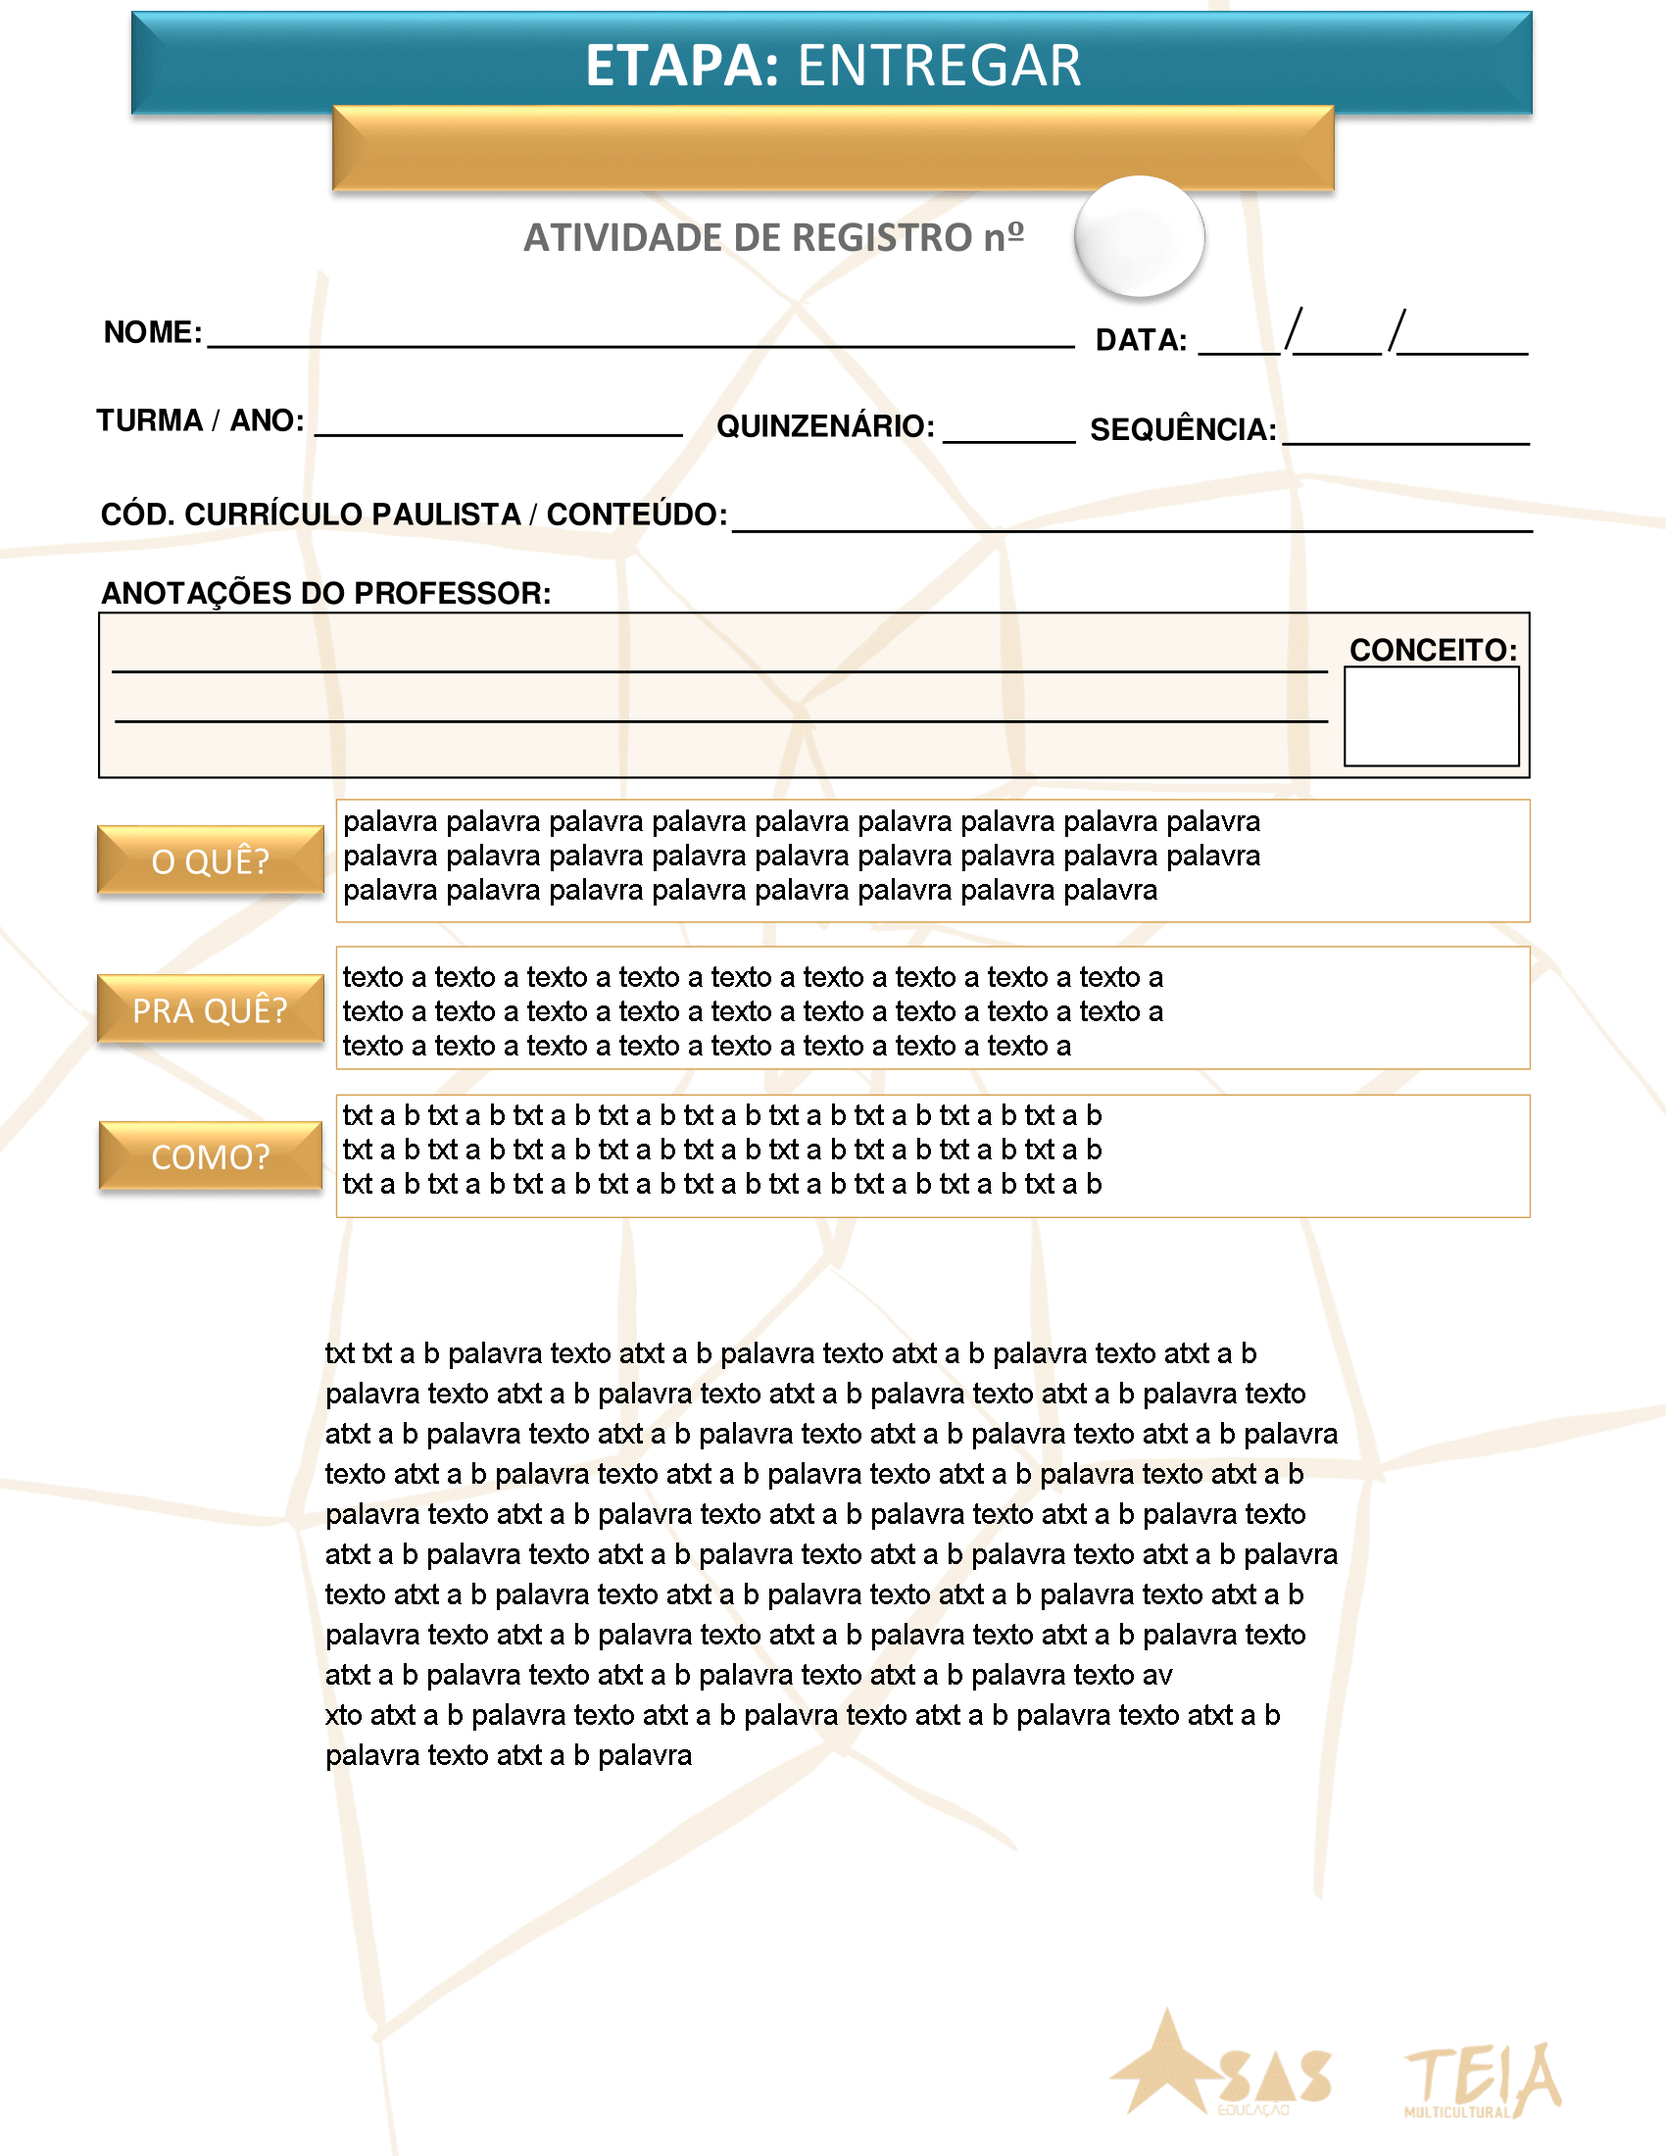
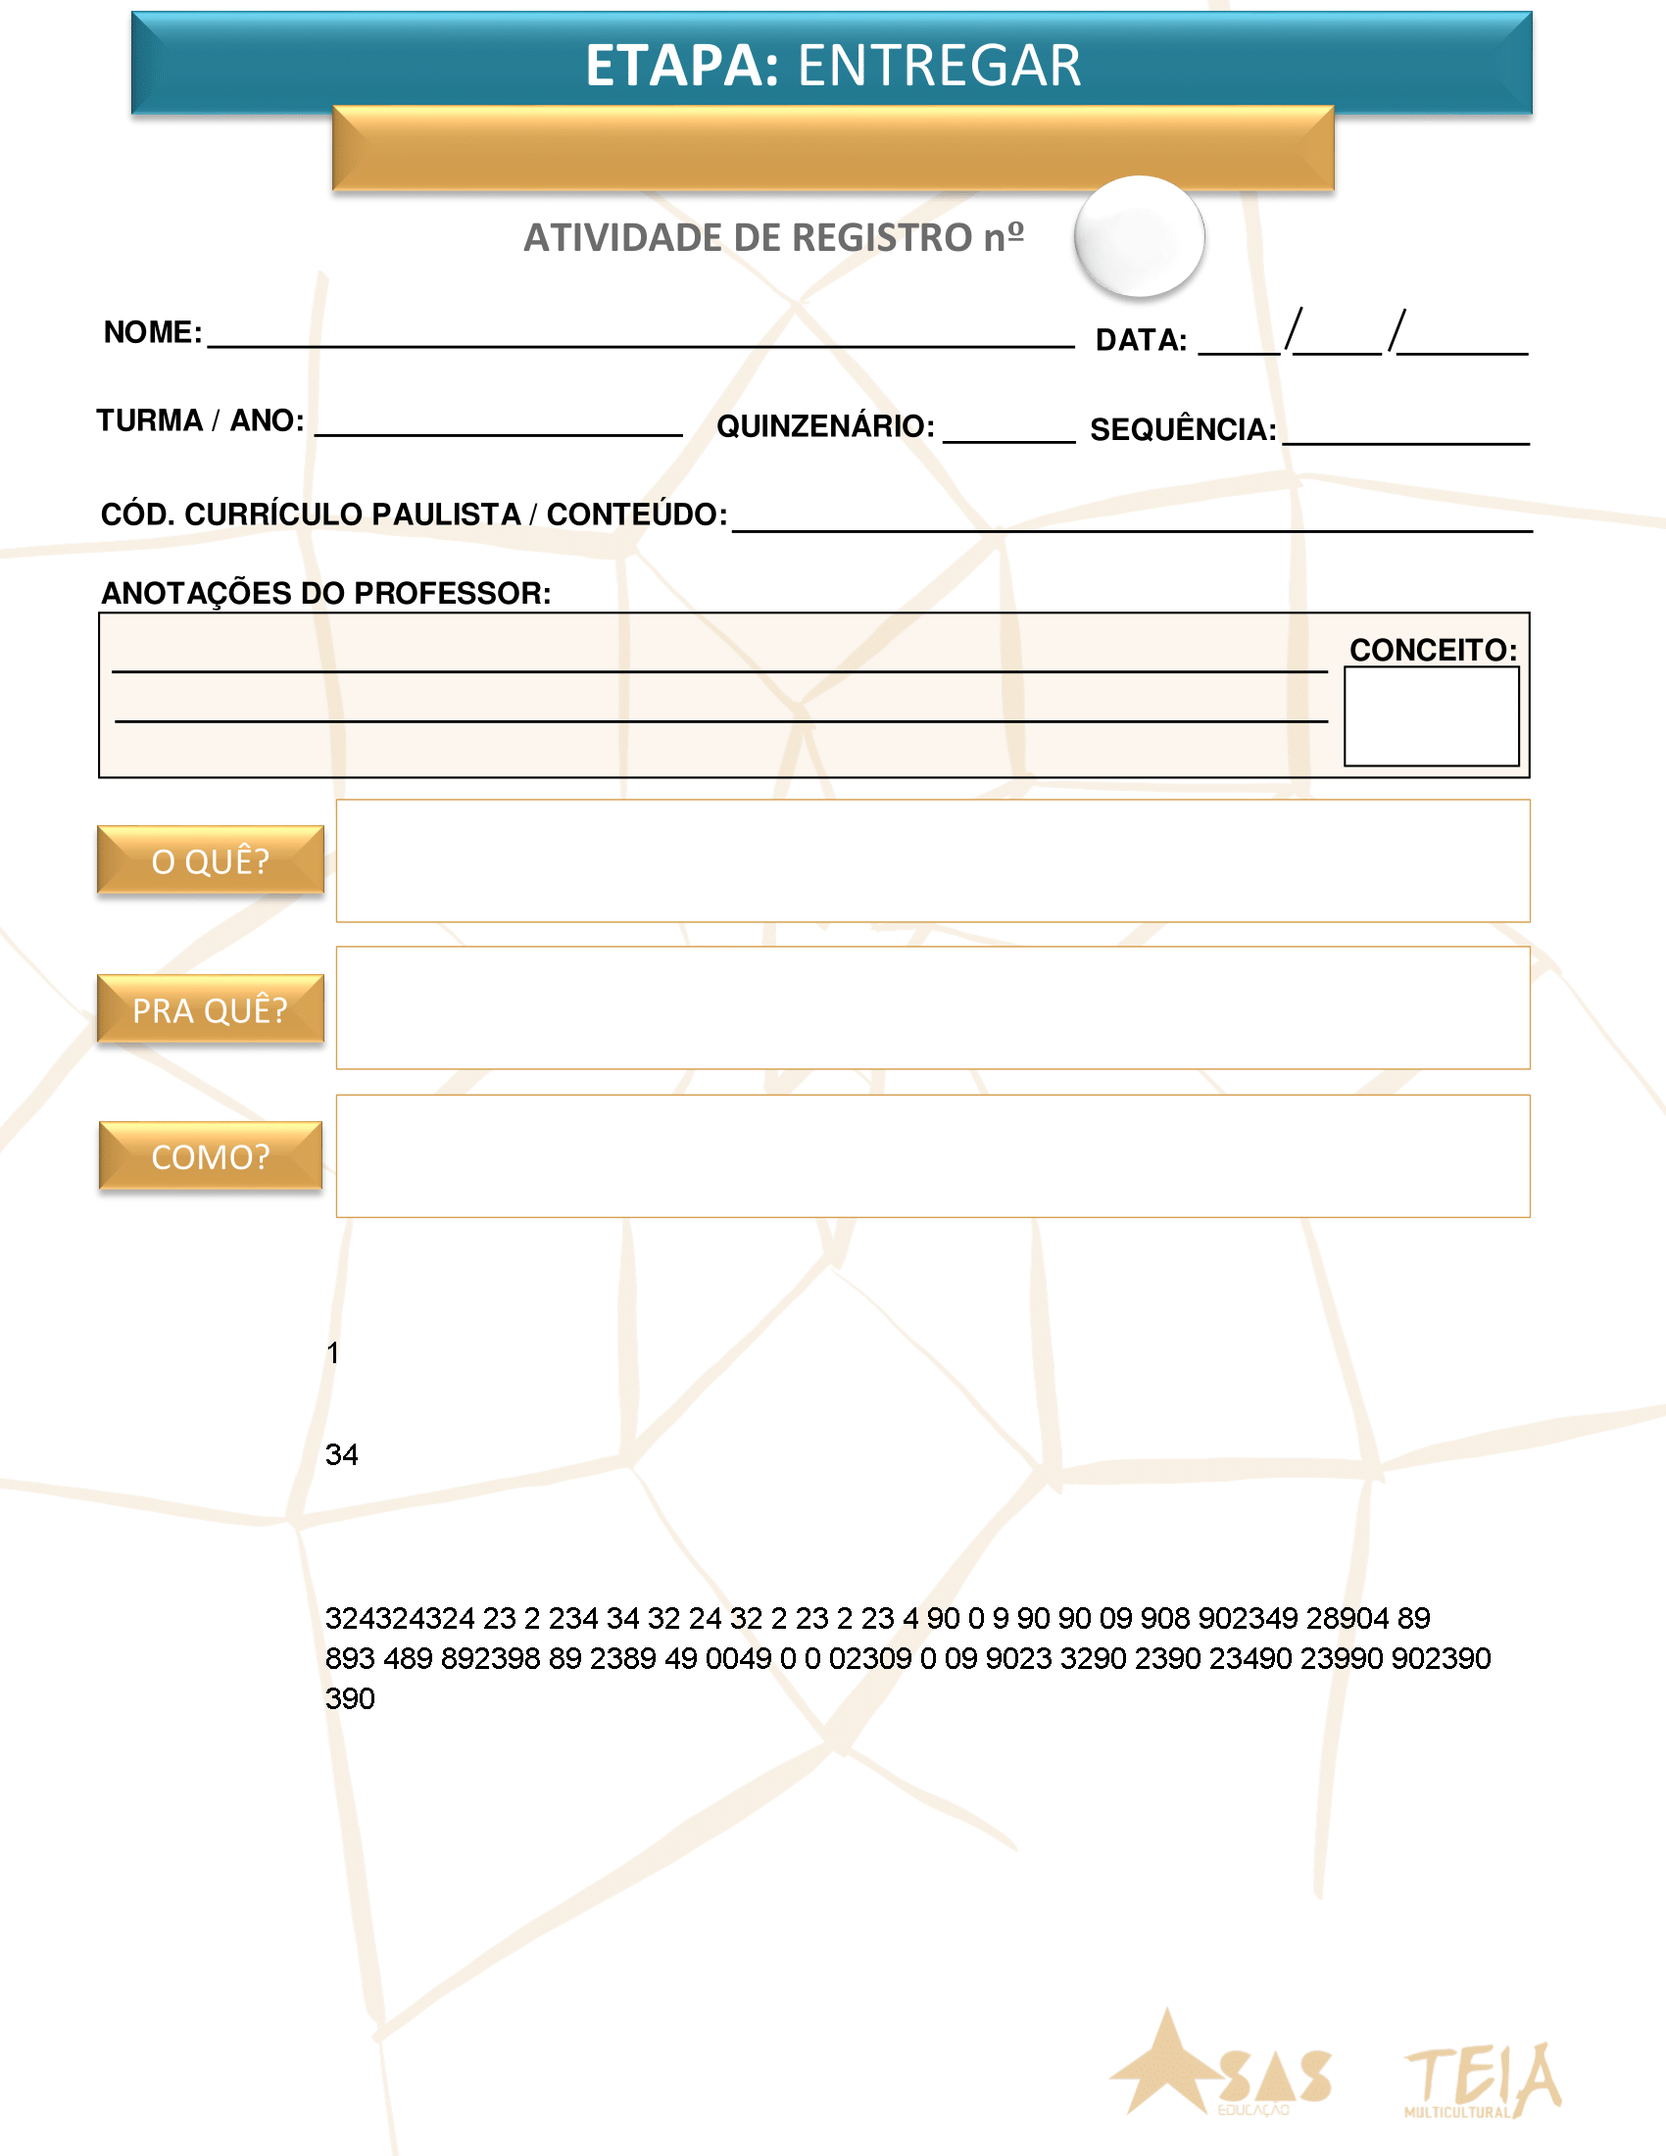
falta ajustes atmanho

Changed region(s): [[0.1871, 0.6182, 0.8729, 0.8345], [0.1871, 0.3709, 0.7482, 0.5564]]

diff --git a/script-preencher.py b/script-preencher.py
@@ -18,23 +18,22 @@ def sair():
     window.destroy()
 
 def verifica_limite_v2():
-
     instrucoes = instrucoes_text.get("1.0", "end")
     num_chars = len(instrucoes)
-    num_linebreaks = instrucoes.count('\n')
+    num_linebreaks = len(instrucoes.splitlines()) - 1  # Subtract 1 for the last line
     num_lines = num_chars // 65 + num_linebreaks
-    
+ 
     if num_lines > 18:
-        messagebox.showwarning("Foi estimado que você atingiu o limite do primeiro bloco de instruções! Para continuar, use o segund bloco")
+        messagebox.showwarning("Limite atingido!", "Foi estimado que você atingiu o limite do primeiro bloco de instruções! Para continuar, use o segund bloco")
 
         
     
  
     instrucoes2 = instrucoes_text2.get("1.0", "end")
     num_chars2 = len(instrucoes2)
-    num_linebreaks2 = instrucoes2.count('\n')
+    num_linebreaks2 = len(instrucoes2.splitlines()) - 1  # Subtract 1 for the last line
     num_lines2 = num_chars2 // 65 + num_linebreaks2
-    
+
     if num_lines2 > 65:
         messagebox.showwarning("Limite de linhas excedido para o segundo bloco de Instruções", "O texto inserido para as instruções da segunda página pode exceder o limite de linhas. Por favor, revise o texto.")
 
@@ -42,65 +41,42 @@ def verifica_limite_v2():
 
 
 def criar_tudo():
-    flag = True
-    instrucoes = instrucoes_text.get("1.0", "end")
-    num_chars = len(instrucoes)
-    num_linebreaks = instrucoes.count('\n')
-    num_lines = num_chars // 65 + num_linebreaks
+
     
-    if num_lines > 18:
-        messagebox.showwarning("Limite de linhas excedido", "O texto inserido para as instruções da primeira página pode"
-                               "exceder o limite de linhas. Por favor, revise o texto.")
-        flag = False
-        
+    strings = criar_primeira_pagina()
+    criar_segunda_pagina()
+
+    pdf_files = ['primeira-pagina.png', 'segunda-pagina.png']
+
+    pdf_writer = PyPDF2.PdfWriter()
+
+    for file_path in pdf_files:
+        if file_path.endswith('.pdf'):
+            with open(file_path, 'rb') as pdf_file:
+                pdf_reader = PyPDF2.PdfReader(pdf_file)
+                for page in pdf_reader.pages:
+                    pdf_writer.add_page(page)
+        elif file_path.endswith('.png'):
+            image = Image.open(file_path)
+            pdf_path = f"{file_path}.pdf"
+            image.save(pdf_path, "PDF", resolution=200)  
+            with open(pdf_path, 'rb') as pdf_file:
+                pdf_reader = PyPDF2.PdfReader(pdf_file)
+                for page in pdf_reader.pages:
+                    pdf_writer.add_page(page)
+            os.remove(pdf_path)
+
+    current_date = datetime.now().strftime("%d_%m_%Y")
+    output_folder = "ABRIR/fichas"
     
- 
-    instrucoes2 = instrucoes_text2.get("1.0", "end")
-    num_chars2 = len(instrucoes2)
-    num_linebreaks2 = instrucoes2.count('\n')
-    num_lines2 = num_chars2 // 65 + num_linebreaks2
-    
-    if num_lines2 > 65:
-        messagebox.showwarning("Limite de linhas excedido", "O texto inserido para as instruções da segunda página pode exceder o limite de linhas. Por favor, revise o texto.")
-        flag = False
-        
-
-    if flag == True: 
-        
-        strings = criar_primeira_pagina()
-        criar_segunda_pagina()
-
-        pdf_files = ['primeira-pagina.png', 'segunda-pagina.png']
-
-        pdf_writer = PyPDF2.PdfWriter()
-
-        for file_path in pdf_files:
-            if file_path.endswith('.pdf'):
-                with open(file_path, 'rb') as pdf_file:
-                    pdf_reader = PyPDF2.PdfReader(pdf_file)
-                    for page in pdf_reader.pages:
-                        pdf_writer.add_page(page)
-            elif file_path.endswith('.png'):
-                image = Image.open(file_path)
-                pdf_path = f"{file_path}.pdf"
-                image.save(pdf_path, "PDF", resolution=200)  
-                with open(pdf_path, 'rb') as pdf_file:
-                    pdf_reader = PyPDF2.PdfReader(pdf_file)
-                    for page in pdf_reader.pages:
-                        pdf_writer.add_page(page)
-                os.remove(pdf_path)
-
-        current_date = datetime.now().strftime("%d_%m_%Y")
-        output_folder = "ABRIR/fichas"
-        
-        file_name = f"FICHA-{strings[1]}-{datetime.now().strftime('%d-%m_%Hh%M')}.pdf"
-        output_path = os.path.join(output_folder, file_name)
+    file_name = f"FICHA-{strings[1]}-{datetime.now().strftime('%d-%m_%Hh%M')}.pdf"
+    output_path = os.path.join(output_folder, file_name)
 
 
-        with open(output_path, 'wb') as output_file:
-            pdf_writer.write(output_file)
+    with open(output_path, 'wb') as output_file:
+        pdf_writer.write(output_file)
 
-        os.startfile(output_path)
+    os.startfile(output_path)
         
     
 def criar_primeira_pagina():
@@ -126,11 +102,11 @@ def criar_primeira_pagina():
     o_que = o_que_text.get("1.0", "end-1c")
     pra_que = pra_que_text.get("1.0", "end-1c")
     como = como_text.get("1.0", "end-1c")
-    instrucoes = instrucoes_text.get("1.0", "end")
-    wrapped_instrucoes = textwrap.wrap(instrucoes, width=50)
+    instrucoes = instrucoes_text.get("1.0", "end").strip()
     lines = instrucoes.splitlines()
-
+    
     strings = [numero_atv, etapa, materia, turma, quinzenario, sequencia, conteudo, o_que, pra_que, como, instrucoes]
+    
     
     
     if etapa == "Definir":
@@ -143,6 +119,22 @@ def criar_primeira_pagina():
         img = Image.open("templates/ENTREGAR-1.png")
 
     draw = ImageDraw.Draw(img)
+
+    wrapped_lines = []
+    max_width = 80
+    y = 1363
+    for line in lines:
+        if line.strip():
+            wrapped_lines = textwrap.wrap(line, width=max_width)
+            for wrapped_line in wrapped_lines:
+                draw.text((332, y), wrapped_line, font=firstFont, fill='black')
+                y += firstFont.getbbox(wrapped_line)[1] + 35
+              # Add extra spacing between wrapped lines
+        else:
+            y += firstFont.getsize(" ")[1] + 35  # Adjust the vertical spacing for empty lines
+
+
+
 
     #numero_atv
     draw.text((1154, 225), strings[0], font=firstFont, fill='black')
@@ -162,10 +154,11 @@ def criar_primeira_pagina():
     #instrucoes
     
     y=1363
+    """
     for line in lines:
         if line.strip():
 
-            wrapped_lines = textwrap.wrap(line, width=85) 
+            wrapped_lines = textwrap.wrap(line, width=80) 
 
             for wrapped_line in wrapped_lines:
                 draw.text((332, y), wrapped_line, font=firstFont, fill='black')
@@ -173,7 +166,7 @@ def criar_primeira_pagina():
             
          
     messagebox.showinfo("Sucesso", "Arquivo criado com sucesso! Eles serão armazenados na pasta ABRIR > fichas")
-
+"""
     def wrap_text(text, width):
         return textwrap.wrap(text, width=width)
     
@@ -199,45 +192,66 @@ def criar_primeira_pagina():
         como_y += 35
 
 
-
-
     img.save("primeira-pagina.png", dpi=(300, 300))
 
     return strings
+
 def wrap_text_with_line_breaks(text, width):
-    lines = text.split("\n") 
+    lines = text.split('\n')
     wrapped_lines = []
 
     for line in lines:
-        wrapped = textwrap.wrap(line, width=width)
-        wrapped_lines.extend(wrapped)
+        if line.strip():
+            wrapped = textwrap.wrap(line, width=width)
+            wrapped_lines.extend(wrapped)
+            wrapped_lines.append('sd')  # Add an empty line for each line break
 
     return wrapped_lines
 
 
-
 import textwrap
-
 def criar_segunda_pagina():
     url_font = 'https://github.com/matomo-org/travis-scripts/blob/master/fonts/Arial.ttf?raw=True'
     normal_font = io.BytesIO(urlopen(url_font).read())
     normal_font.seek(0)
     firstFont = ImageFont.truetype(normal_font, 30)
 
-    instrucoes2 = instrucoes_text2.get("1.0", "end")
-    wrapped_instrucoes = textwrap.wrap(instrucoes2, width=80)
+    instrucoes2 = instrucoes_text2.get("1.0", "end-1c")
+    lines2 = instrucoes2.split("\n")
+    max_width = 80  # Adjust the maximum width based on your requirements
 
     img = Image.open("templates/other-1.png")
     draw = ImageDraw.Draw(img)
-
     y = 100
-    for line in wrapped_instrucoes:
-        draw.text((350, y), line, font=firstFont, fill='black')
-        y += 35
+    for line in lines2:
+        if line.strip():
+            wrapped_lines = textwrap.wrap(line, width=max_width)
+            for wrapped_line in wrapped_lines:
+                draw.text((350, y), wrapped_line, font=firstFont, fill='black')
+                y += firstFont.getbbox(wrapped_line)[1] + 35
+             # Add extra spacing between wrapped lines
+        else:
+            y += firstFont.getsize(" ")[1] + 35  # Adjust the vertical spacing for empty lines
+
 
     img.save("segunda-pagina.png", dpi=(300, 300))
 
-# Crie a janela principal   
+
+def wrap_text(text, max_width, font):
+    words = text.split()
+    if not words:
+        return []
+    lines = []
+    current_line = words[0]
+    for word in words[1:]:
+        if font.getsize(current_line + ' ' + word)[0] <= max_width:
+            current_line += ' ' + word
+        else:
+            lines.append(current_line)
+            current_line = word
+    lines.append(current_line)
+    return lines
+
 window = ThemedTk(theme="breeze") 
 window.title("Preenchedor de ficha")
 
@@ -250,7 +264,7 @@ style.configure("RoundedEntry.TEntry", borderwidth=0, relief="solid",
 frame = ttk.Frame(window)
 frame.pack(padx=20  )
 
-# Informações do usuário
+
 user_info_frame = ttk.LabelFrame(frame, text="")
 user_info_frame.grid(row=1, column=0, padx=20, pady=(10,20))
 
@@ -322,6 +336,9 @@ def validate_input_o_que(event):
 #-----------------------#-----------------------#-----------------------#-----------------------#-----------------------
 
 def validate_input_generico(event, input_widget, max_lines, max_characters):
+    if event.keysym == "BackSpace":
+        return None
+    
     verifica_limite_v2()
     if event.widget == input_widget:
         text = input_widget.get("1.0", "end-1c")
@@ -401,21 +418,21 @@ instrucoes_text.bind("<Key>", lambda event: validate_input_generico(event, instr
 instrucoes_text.bind("<KeyRelease>", lambda event: validate_input_generico(event, instrucoes_text, 40, 1300))
 instrucoes_text.bind("<Control-v>", lambda event: validate_paste_generico(event, instrucoes_text, 1300))
 
-instrucoes_text2.bind("<Key>", lambda event: validate_input_generico(event, instrucoes_text2, 22, 4000))
-instrucoes_text2.bind("<KeyRelease>", lambda event: validate_input_generico(event, instrucoes_text2, 22, 4000))
-instrucoes_text2.bind("<Control-v>", lambda event: validate_paste_generico(event, instrucoes_text2,4000 ))
+instrucoes_text2.bind("<Key>", lambda event: validate_input_generico(event, instrucoes_text2, 65, 4000))
+instrucoes_text2.bind("<KeyRelease>", lambda event: validate_input_generico(event, instrucoes_text2,65, 4000))
+instrucoes_text2.bind("<Control-v>", lambda event: validate_paste_generico(event, instrucoes_text2, 4000))
 
 
-como_text.bind("<Key>", lambda event: validate_input_generico(event, como_text, 3, 200))
-como_text.bind("<KeyRelease>", lambda event: validate_input_generico(event, como_text, 3, 200))
+como_text.bind("<Key>", lambda event: validate_input_generico(event, como_text, 2, 200))
+como_text.bind("<KeyRelease>", lambda event: validate_input_generico(event, como_text, 2, 200))
 como_text.bind("<Control-v>", lambda event: validate_paste_generico(event, como_text, 200))
 
-pra_que_text.bind("<Key>", lambda event: validate_input_generico(event, pra_que_text, 3, 200))
-pra_que_text.bind("<KeyRelease>", lambda event: validate_input_generico(event, pra_que_text, 3, 200))
-pra_que_text.bind("<Control-v>", lambda event: validate_paste_generico(event, o_que_text, 200))
+pra_que_text.bind("<Key>", lambda event: validate_input_generico(event, pra_que_text, 2, 200))
+pra_que_text.bind("<KeyRelease>", lambda event: validate_input_generico(event, pra_que_text, 2, 200))
+pra_que_text.bind("<Control-v>", lambda event: validate_paste_generico(event, pra_que_text, 200))
 
-o_que_text.bind("<Key>", lambda event: validate_input_generico(event, o_que_text, 3, 200))
-o_que_text.bind("<KeyRelease>", lambda event: validate_input_generico(event, o_que_text, 3, 200))
+o_que_text.bind("<Key>", lambda event: validate_input_generico(event, o_que_text, 2, 200))
+o_que_text.bind("<KeyRelease>", lambda event: validate_input_generico(event, o_que_text, 2, 200))
 o_que_text.bind("<Control-v>", lambda event: validate_paste_generico(event, o_que_text, 200))
 
 
